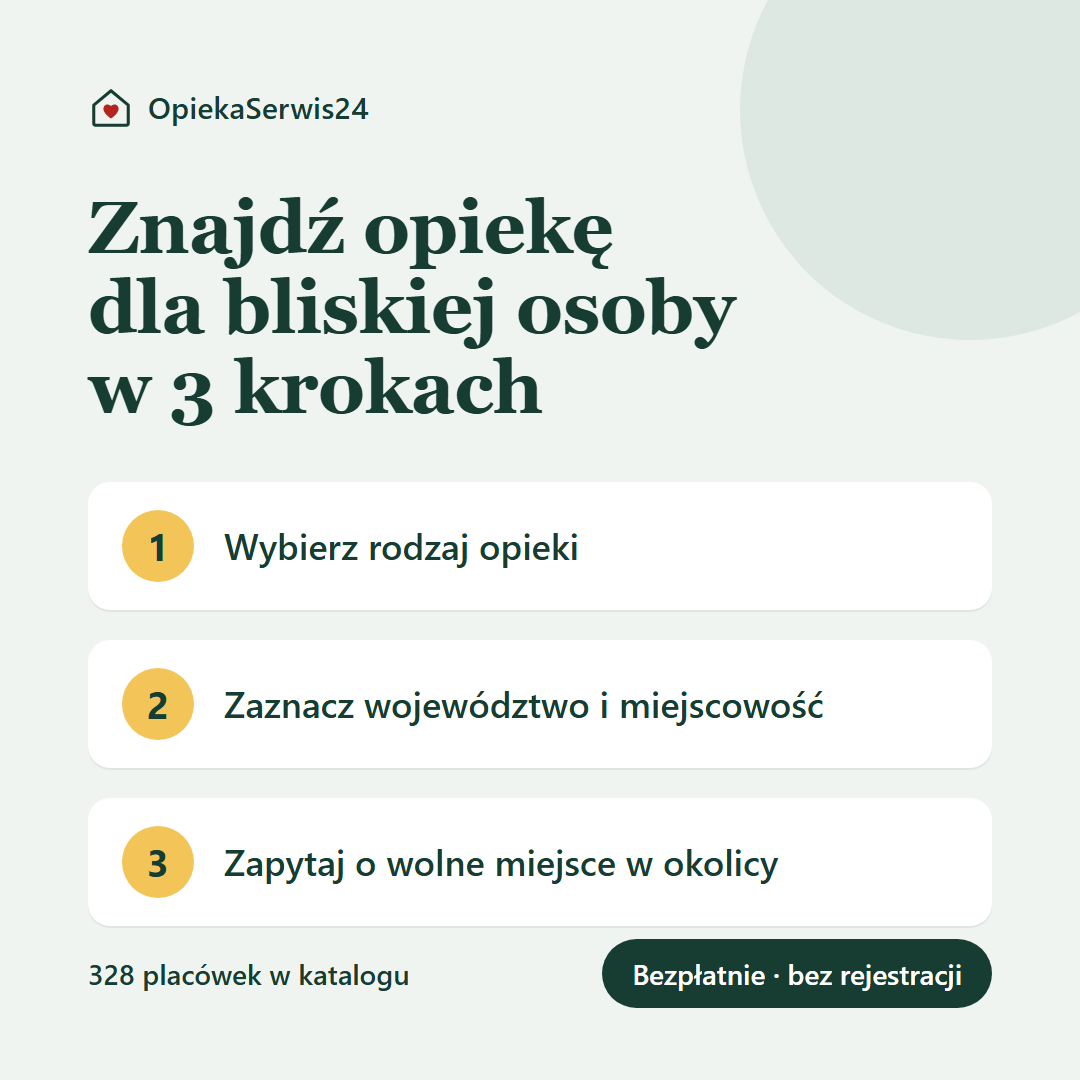
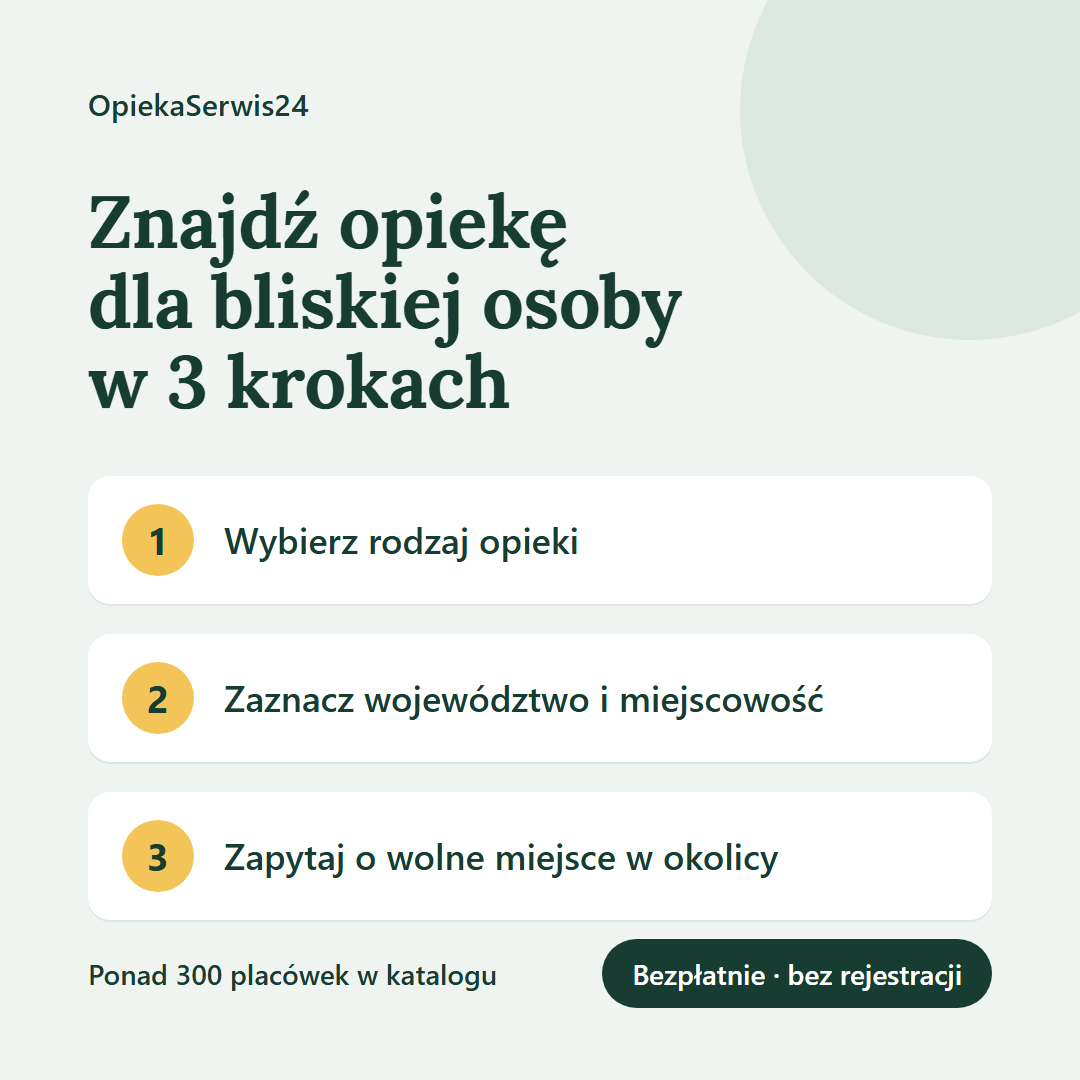
probki OpiekaSerwis24: grafiki i teksty po korekcie

diff --git a/probki/opiekaserwis24/index.html b/probki/opiekaserwis24/index.html
@@ -5,7 +5,7 @@
 <meta name="viewport" content="width=device-width, initial-scale=1">
 <meta name="robots" content="noindex, nofollow">
 <title>OpiekaSerwis24 – próbka postów na Facebooka</title>
-<meta name="description" content="Trzy pierwsze posty na Facebooka dla OpiekaSerwis24: teksty i grafiki 1080×1080 w kolorach portalu.">
+<meta name="description" content="Trzy pierwsze posty na Facebooka dla OpiekaSerwis24: teksty i grafiki 1080×1080.">
 <link rel="preconnect" href="https://fonts.googleapis.com">
 <link rel="preconnect" href="https://fonts.gstatic.com" crossorigin>
 <link href="https://fonts.googleapis.com/css2?family=Lora:wght@600;700&display=swap" rel="stylesheet">
@@ -101,7 +101,7 @@ footer p { margin: 0 0 6px; }
       <p class="num">Post 3 · opiekunowie</p>
       <h2>Dla opiekunek i opiekunów</h2>
       <p>Jesteś opiekunką lub opiekunem osób starszych? Rodziny szukają kogoś takiego jak Ty.</p>
-      <p>W OpiekaSerwis24 możesz się zgłosić i przeglądać ogłoszenia rodzin, które szukają opieki dla bliskich.</p>
+      <p>Zgłoś się w OpiekaSerwis24 – przygotujemy Twój profil, który zobaczą rodziny szukające opieki w Twojej okolicy.</p>
       <p>👉 <span class="ph">link do „Jestem opiekunem”</span></p>
       <p>Udostępnij ten post znajomym opiekunom.</p>
     </div>
@@ -109,7 +109,6 @@ footer p { margin: 0 0 6px; }
 </section>
 </main>
 <footer><div class="wrap">
-  <p>Grafiki można pobrać: kliknij prawym przyciskiem na obraz → „Zapisz obraz”.</p>
   <p>Maria · Frame One</p>
 </div></footer>
 </body>
